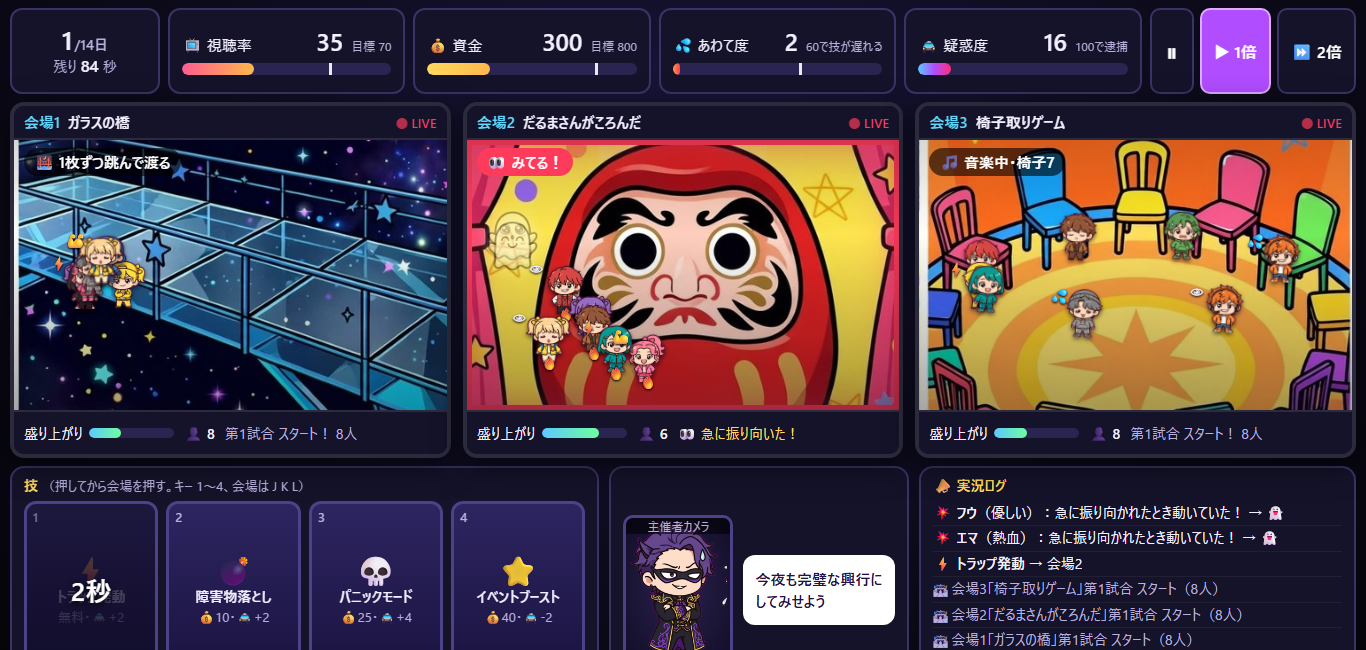
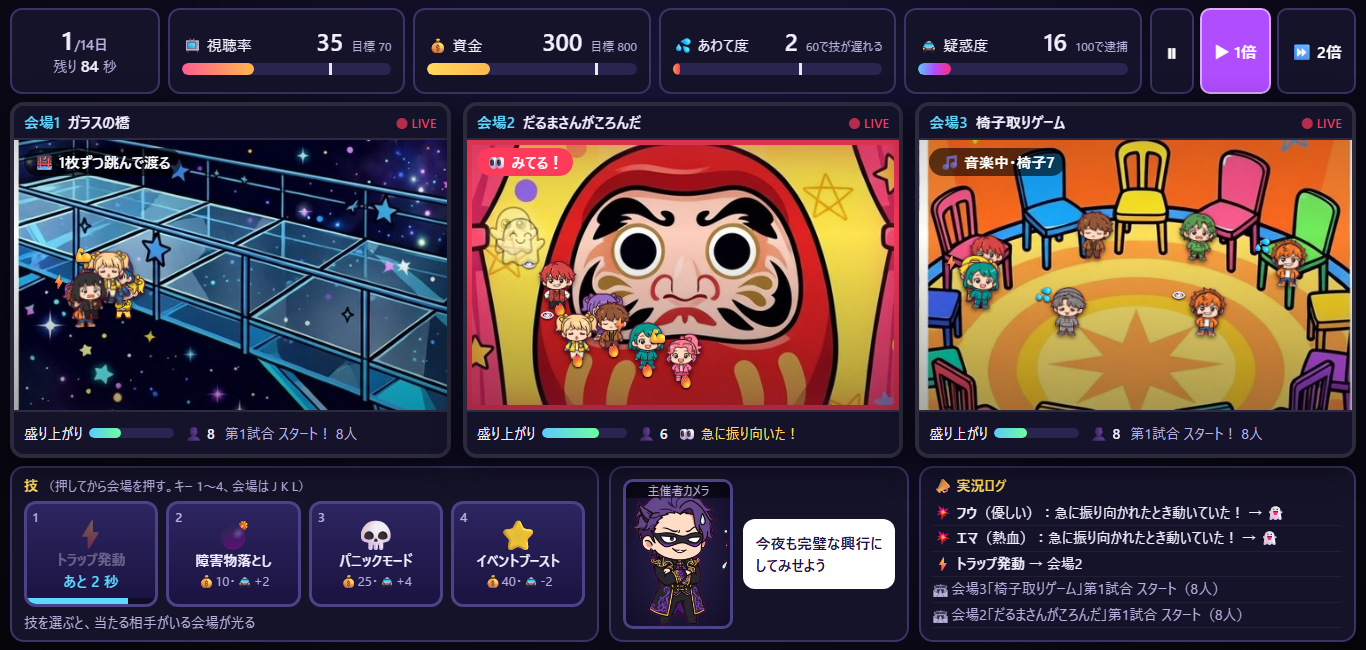
画面の直し（下段の伸び・クールダウン表示・スマホ配置）、検査器の改良、REPORT.md と DESIGN.md

diff --git a/tools/check.js b/tools/check.js
@@ -15,7 +15,9 @@ const url = 'file:///' + path.join(__dirname, '..', 'index.html').replace(/\\/g,
 // ページ内で動かす検査：文字の行ごとの範囲を集めて、交差とはみ出しを数える（内側の overflow で隠れる部分は数えない。body の overflow:hidden は数える。消えかけ opacity<.3 と絵文字だけの印は除外）
 const TEXT_CHECK = `(() => {
   const rects = []; const vw = innerWidth, vh = innerHeight;
-  const walker = document.createTreeWalker(document.body, NodeFilter.SHOW_TEXT);
+  // モーダル（結果の画面）が出ている間は、その中の文字だけを見る（後ろの文字は不透明な箱に隠れている）
+  const modal = document.querySelector('#modalWrap'); const modalOpen = modal && getComputedStyle(modal).display !== 'none';
+  const walker = document.createTreeWalker(modalOpen ? document.querySelector('#modal') : document.body, NodeFilter.SHOW_TEXT);
   let node; while ((node = walker.nextNode())) {
     if (!node.nodeValue.trim()) continue; const el = node.parentElement; if (!el) continue;
     if (!/[0-9A-Za-z぀-ヿ㐀-鿿０-ｚ]/.test(node.nodeValue)) continue;   // 絵文字だけの印（⚡🔥💥 など）は文字として数えない

diff --git a/style.css b/style.css
@@ -195,9 +195,9 @@ small { font-size: 13px; color: var(--dim); }
   .actor img.chibi { height: 36px; }
   .actor { width: 40px; }
   #bottom { grid-template-columns: 1fr; gap: 6px; }
-  #host, #logbox { display: none; }
+  #bottom #host, #bottom #logbox { display: none; }   /* #bottom section の指定より強くする */
   #skills { padding: 6px 8px; }
-  #skills .ph small, #hint { display: none; }
+  #skills .ph small, #hint, .skill .key { display: none; }
   .skill .ic { font-size: 24px; }
   .skill .nm { font-size: 13px; }
   .skill .ct { font-size: 12px; }

diff --git a/REPORT.md b/REPORT.md
@@ -1,0 +1,135 @@
+# 報告 2026-11-08：デスゲーム主催者シミュレータ 試作 v4（最小の試作）
+
+依頼文 `../claude-package/PROMPT.md` の「会場3つ＋技4つ＋1日の流れが最後まで遊べる最小の試作」を作り、動く状態で確かめました。
+置き場所: `C:\Users\nonus\Downloads\death-game-claude-package\prototype\`（ローカル Git のみ。GitHub への作成・公開はしていません → 質問1）。
+遊び方: `node tools/serve.js` → http://127.0.0.1:8790/ （`index.html` を直接開いても動く）。`?seed=7&skip=1` でタイトルを飛ばして同じ試合を再現。
+
+## やったこと
+
+- **ルール部分 `sim.js`**（画面なし、Node でも動く、seed で再現）
+  - 会場3: ガラスの橋／だるまさんがころんだ／椅子取りゲーム（基準イラストの3つ）。参加者8人が自動で必死に動く
+  - 技4: トラップ発動／障害物落とし／パニックモード／イベントブースト（基準イラストの技バーの4つ）。クールダウン・資金・疑惑度のコストつき
+  - 1日90秒、会場ごとに試合が自動で続く（約2〜3試合／会場／日）。14日のシーズン。クリア（視聴率70・資金800）／打ち切り／逮捕（疑惑度100）／破産
+  - 参加者は自動生成（名前・性格・特性1つ・人気）。生き残ると人気が上がり、人気者⭐を主催者が落とすと視聴率が大きく上がる
+  - 主催者 vs 参加者の攻防: 技は「跳んでいる・動いている・椅子から遠い」ときだけ当たる。参加者は見える理由でよける（⚡すばしっこい45%／👁勘がいいは予兆で止まる／🔥警戒は技を見るたび+12%）。詳しくは `DESIGN.md` 2章
+- **主催者画面 `index.html` + `ui.js` + `style.css`**（基準イラスト 01 の構成）
+  - 上: 視聴率・資金・あわて度・疑惑度のゲージ、日数・残り秒、一時停止/1倍/2倍
+  - 中: モニター3つ。技を選ぶと当たる相手がいる会場が金色に光る。狙っている間は赤い TARGET LOCKED 枠。脱落は 💥 で弾けておばけが浮かぶ
+  - 下: 技バー（クールダウン秒・値段・疑惑）、主催者カメラ（表情3種＋汗＋セリフ）、実況ログ
+  - 操作: 技を押す→会場を押す。キー 1〜4（技）・J K L（会場）・スペース（一時停止）
+  - 絵は旧試作（usouso/death-game-tycoon 第3版の index.html に埋め込まれていた物）を取り出して流用: ちびキャラ12・おばけ6・主催者3表情・会場背景3。**図形で代用した絵はありません**（足りない絵は質問5）
+- **確かめる道具**: `tests.js`（文字どおりテスト）、`bot/run.js`（ボット4方針で14日を回す表）、`tools/check.js`（ヘッドレス Chrome で自動プレイ・文字の重なり/はみ出し/スクロール検査・写真）、`tools/serve.js`
+- **標準の準備**: `docs/game-development/` に標準3文書をコピー、`AGENTS.md`/`CLAUDE.md` に入口を置いた。読了と実証は `C:\Users\nonus\Documents\GameDevelopment\TEAM-REGISTRY.md` の末尾に返した
+- 同梱の試し音源は、`audio/AUDIO-NOTE-for-claude.txt` の指示どおり **組み込んでいません**（質問4）
+
+## 確かめたこと
+
+1. **文字どおりテスト** `node tests.js` → **29/29 合格**（技の数値、トラップは跳んでいる2人に当たる、空振りの理由、⚡の回避率 45%±4、👁は予兆で止まって当たらない、だるまの振り向き 0.5秒ぴったり、椅子取りは3回止まって3人脱落、逮捕/破産/クリア/打ち切り、同じ seed で同じ結果）
+2. **ボット** `node bot/run.js --seeds 40`（14日×40周、画面なし）
+
+   | 方針 | クリア | 逮捕 | 破産 | 未達 | 最終視聴率 | 最終資金 | 疑惑max | 技の発動/周 | 命中率 | 主催者の技で脱落/周 | 自然脱落/周 |
+   |---|---|---|---|---|---|---|---|---|---|---|---|
+   | 何もしない | 0% | 0% | 0% | 100% | 29 | 264 | 0 | 0 | ― | 0 | 147 |
+   | 連打（撃てたら撃つ） | 0% | 100%（2日目） | 0% | 0% | 89 | 14 | 100 | 44 | 52% | 18 | 26 |
+   | 狙って撃つ（疑惑75で止める） | 98% | 0% | 0% | 3% | 82 | 982 | 68 | 88 | 61% | 70 | 143 |
+   | 慎重（疑惑55で止める） | 95% | 0% | 0% | 5% | 81 | 983 | 47 | 81 | 63% | 67 | 141 |
+
+   - 技ごと（狙って撃つ）: トラップ 発動51・命中53・よけられ29・空振り6（発動あたり成功73%）／障害物 発動27・命中17・よけられ9・空振り1（63%）／ブースト 8／パニック 2
+   - 会場ごとの脱落（主催者の技／自然、狙って撃つ）: 橋 24／42、だるま 37／14、椅子 9／87
+   - 読み方: 何もしないと視聴率が足りず負け、連打すると2日目に逮捕、狙って撃つとクリア。「どこに・いつ撃つか」で結果が変わる形にはなった。ただしボットは命中をほぼ最適に取るので、人だとクリア率はもっと低いはず
+3. **画面の自動検査** `node tools/check.js`（ヘッドレス Chrome、自動プレイで3日目まで、100ms ごとに文字の重なり/はみ出し/スクロールを数える）
+   - 1920×910 / 1366×650 / 375×812: （結果はこの下の「検査結果」に）
+4. **本人 PC の Claude 内ブラウザで通常入力**（1366×650）: タイトル→開始→キー1で技選択（当たる会場が光る）→会場クリックで発動→TARGET LOCKED→2人命中→おばけ化、障害物（💰10・疑惑+4・ぼこっと落ちて命中）、ブースト（視聴率+5・✨）、パニックモード（紫枠・8秒）、1日目終了の画面→2日目へ、を目で確認。console のエラー 0
+5. 見つけて直した不具合: ログが増えると下の段が伸びて技ボタンと主催者カメラが画面の外に出る（grid の min-height）／クールダウンの秒数が技の名前に重なる／0.5秒の振り向きが浮動小数で0.6秒になり、あわてんぼうが捕まらない（EPS）／疑惑度が「100」と表示されるのに逮捕されない（四捨五入で判定）
+
+### 検査結果（tools/check.js）
+
+| 画面サイズ | 判定 | console/pageerror | 文字の重なり | はみ出し | ページのスクロール | 検査回数 | 到達 |
+|---|---|---|---|---|---|---|---|
+| 1920×910 | 合格 | 0 | 0 | 0 | 0 | 413 | 3日目 |
+| 1366×650 | 合格 | 0 | 0 | 0 | 0 | 416 | 3日目 |
+| 375×812（縦スマホ） | 合格 | 0 | 0 | 0 | （PC のみ判定） | 421 | 3日目 |
+
+- `node tools/check.js --seed 7 --days 2` → 終了コード 0。写真は `screenshots/01-title〜05-last × 3サイズ`
+- 14日通し（`--seed 3 --days 14 --sizes 1366x651`）: 自動プレイで **14日目まで到達し「🏆 シーズン成功」の画面が出た**（視聴率77／資金1097／疑惑度63／脱落者220人、技84回・命中72・よけられ37・空振り4）。写真 `screenshots/05-last-1366x651.png`。※この通し検査は重なり検査の直し（結果画面の後ろの文字を数えない）より前に始めたので「重なり193」が出ているが、全部「結果画面の後ろに隠れた文字 × 結果画面のボタン」。直した検査器での3サイズ再検査は上の表のとおり 0
+- 検査器の決めごと: 絵文字だけの印（⚡🔥💥 など）は文字として数えない。結果画面が出ている間は、その中の文字だけ見る。body の overflow:hidden で隠れた文字は「はみ出し」に数える（最初の検査でこれを見逃していて、下の段が画面外に出た不具合を手で見つけた）
+- スマホ縦（375×812）はスクロールなしで全部入るが、モニターの中が縦84pxで小さい。主催者カメラと実況ログは隠している
+
+## 未確認のこと
+
+- 本人の実際の Chrome（1920×910）での見た目は未確認。ヘッドレスの 1920×910 と Claude 内ブラウザの 1366×650・375×812 で見ただけ
+- スマホ実機は未確認（375×812 の縦はヘッドレスで写真を撮っただけ。横向きは未確認）
+- 人の手で14日を通して遊んでいない（手で通したのは1日目→2日目まで。14日通しは自動プレイでクリア画面まで確認）。**楽しいか・迷うかは分からない**
+- 2倍速のとき、弾ける→おばけの演出は実時間のタイマーなので、ルールと見た目が少しずれる可能性（検査では捕まえていない）
+- 独立レビューは未確保（標準どおり「開発完了」にはしていない）
+- `Initialize-GameProject.ps1` は Windows PowerShell 5.1 で here-string の終端エラーになり動かなかった（同じ内容を手でコピー）
+
+## 気づいたこと・懸念（やめた方がいい、という意味ではありません）
+
+- **椅子取りは自然脱落が多い**（1試合に3人、主催者の技で落ちるのは1周に9人だけ）。この会場での技は「誰を落とすか（人気者を狙う）」を選ぶ技になっていて、橋・だるまとは役割が違う。遊んで物足りなければ、ルールを変える（例: 椅子は毎回減らず、主催者が「椅子を壊す」ときだけ減る）
+- 命中率 61%・よけられ 38回/周は「簡単には決まらない」になっているが、当たらなかった理由は毎回ログと会場の印に出る（⚡／🔥／予兆で止まった／跳んでいなかった）。感想次第で数を動かせる（`sim.js` の先頭にまとめてある）
+- モニターの中は8人で混む。名前は出していない（印だけ）。だれが人気者かは⭐で分かる
+- 主催者の絵は旧試作の「正面」を主催者カメラ窓に使った。基準イラストの「後ろ姿」はない（質問2）
+- 技アイコン・障害物・予兆の印は絵文字（⚡💣💀⭐🪨❗）。UI の記号として使ったが、絵として用意するなら差し替えやすい
+- ボットの視聴率は 9日目まで約58で横ばい、終盤に82まで上がる。これはボットの撃ち方（終盤にブーストを使う）の癖で、人が遊ぶと違う曲線になる
+
+## 質問
+
+答えやすいように選択肢を付けました。おすすめは ★。
+
+1. **作品の置き場所**（これが決まるまで GitHub には作っていません）
+   - A ★ 新しいリポジトリを作る（例: `usouso/death-game-master`。C:\dev\death-game-master に移して、GitHub Pages の公開 URL とデスクトップのショートカットも作る）
+   - B 既存の `usouso/death-game-tycoon` を作り直す（今の第3版は `v3/` に残して遊べるようにし、新版を index.html にする）
+   - C まだ決めない（今の Downloads の中で続ける）
+   - 補足: A か B なら「公開 URL（GitHub Pages）とデスクトップのショートカットを作っていいか」も一緒に教えてください（公開は許可なしにはしません）
+2. **主催者キャラの名前と見た目**
+   - A ★ 名前は仮に「主催者」のまま。絵は旧試作の正面3表情（紫髪・サングラス）を主催者カメラに使い続ける
+   - B 基準イラストどおり「後ろ姿」の絵を新しく用意する（誰が描くか: Muse に頼む／ぼくくんが用意する）。用意されるまでは A
+   - C 名前を決める（案があれば書いてください。例: ゲームマスター、カンリニン、○○P）
+3. **会場3種と技4種の顔ぶれ**
+   - A ★ 今のまま（基準イラストどおり: ガラスの橋／だるま／椅子取り、トラップ／障害物／パニック／ブースト）
+   - B 入れ替える（候補: 旧試作にあった「多数決デス投票」「移動迷路」など。どれを外してどれを入れるか）
+   - 会場ごとの固有干渉（橋を揺らす・急に振り向かせる・音楽を止める）は、今はトラップ発動の中身として入れています。別の技として分ける方がよければ、それも
+4. **音源**（同梱の試し音源は、指示どおり組み込んでいません）
+   - A ★ 試し音源の方向で OK → 次の更新で組み込む（音量は自分で調整でき、初期値は控えめ。`?mute=1` で無音）
+   - B 作り直し待ち（感想を Muse へ）
+   - C 当分は無音で進める
+5. **足りない絵の扱い**（図形で代用はしていません。今は次のように見せています）
+   - だるまの振り向き → 赤い枠と「👀 みてる！」の印／割れるガラス → 参加者が弾けるだけ（ガラスは絵のまま）／減る椅子 → 数字「椅子7」だけ／障害物 → 🪨 の絵文字／技アイコン → 絵文字
+   - A ★ 試作のうちはこのままで OK（遊んで方向が決まってから絵を頼む）
+   - B 今のうちに絵を用意する（どれを？ 誰が描く？）
+6. **試作の次の一歩**（遊んだ感想をもらってから決めたいこと。答えは感想でも OK）
+   - 当たりすぎ／当たらなすぎ、1日90秒は長い／短い、椅子取りの手応え、モニターの中の見やすさ
+
+## スキルに足す候補
+
+- タイマーを `t -= dt` で減らして `t <= 0` で判定すると、0.5 − 0.1×5 が 0 にならず 1コマ（0.1秒）遅れる。`t <= 1e-6` の余裕を入れる。（だるまの振り向きが 0.6秒になって、あわてんぼうが一度も捕まらなかった）
+- 文字の重なり検査で、絵文字だけの印（⚡🔥💥 など）は文字として数えない。逆に body の overflow:hidden で隠れた文字は「はみ出し」として数える（隠れて見えないのは不具合。今回、下の段が画面外に出たのを検査が見逃した）
+- CSS grid の中にログのような伸びる箱を置くときは、行に `grid-template-rows: minmax(0, 1fr)`、箱に `min-height: 0; overflow: hidden` を付ける。付けないと中身の量で段が伸びて、固定のボタンが画面外に出る
+- 旧試作の index.html に base64 で埋め込まれた絵は、取り出して次の試作で使える（絵の資産は埋め込みでも失われない）
+
+## 引継ぎ（HANDOFF-TEMPLATE の形）
+
+- task ID: （dot が付ける）
+- repo / branch / commit / dirty変更: ローカル Git `prototype/` main / （最終 commit は末尾）/ なし
+- 制作担当 / 独立担当 / dot: Claude（Claude Code, Fable 5.1）/ 未確保 / 未登録
+- 対象作業と除外範囲: 最小の試作（会場3・技4・14日）。音の組み込み・会場追加・参加者側画面は除外
+- 既存作業・LOCK・スケジューラー確認: この試作は新規フォルダで、既存 repo（death-game-tycoon）は読んだだけで変更していない。LOCK なし
+- 変更理由と再現手順: `node tools/serve.js` → http://127.0.0.1:8790/?seed=7&skip=1 。1366×650 と 1920×910、マウス＋キー（1〜4, J K L）
+- 実行コマンド / 終了コード: `node tests.js` → 0（29/29）、`node bot/run.js --seeds 40` → 0、`node tools/check.js --seed 7 --days 2` → 下の検査結果
+- 実ゲームURLまたは起動ファイル: `prototype/index.html`（公開 URL なし）
+- スクリーンショット・ログ: `prototype/screenshots/`（01-title, 02-play-a, 03-play-b, 04-dayend, 05-last × 3サイズ、check-report.json）
+- 標準の読了版・パス・日時: v1.2、C:\Users\nonus\Documents\GameDevelopment\GAME-DEVELOPMENT-STANDARD.md（sha256 先頭 874a32376352f229）、2026-11-08 08:10 JST ごろ
+- 次の担当と停止条件: 質問1〜5 の答え待ちで停止。独立レビュー担当は dot の指定待ち
+
+| 工程 | 状態 | 担当 | commit | 実測・証拠 |
+|---|---|---|---|---|
+| Claude→Codex呼出し | 未実施 | | | 独立担当未確保 |
+| コードレビュー | 未実施（自己確認のみ） | Claude | 末尾 | |
+| テスト実行 | 合格 | Claude | 末尾 | tests.js 29/29、bot 表 |
+| 実ゲーム起動 | 合格 | Claude | 末尾 | Claude 内ブラウザ・ヘッドレス Chrome |
+| 画面確認 | 合格（3サイズ） | Claude | 末尾 | screenshots/ |
+| 通常入力・進行 | 合格（1日目→2日目まで実入力。14日通しは自動プレイ） | Claude | 末尾 | 本文 4. |
+| 結果受渡し | 未実施 | | | この REPORT.md |
+| 修正 | ― | | | |
+| 別担当の再テスト | 未実施 | | | |
